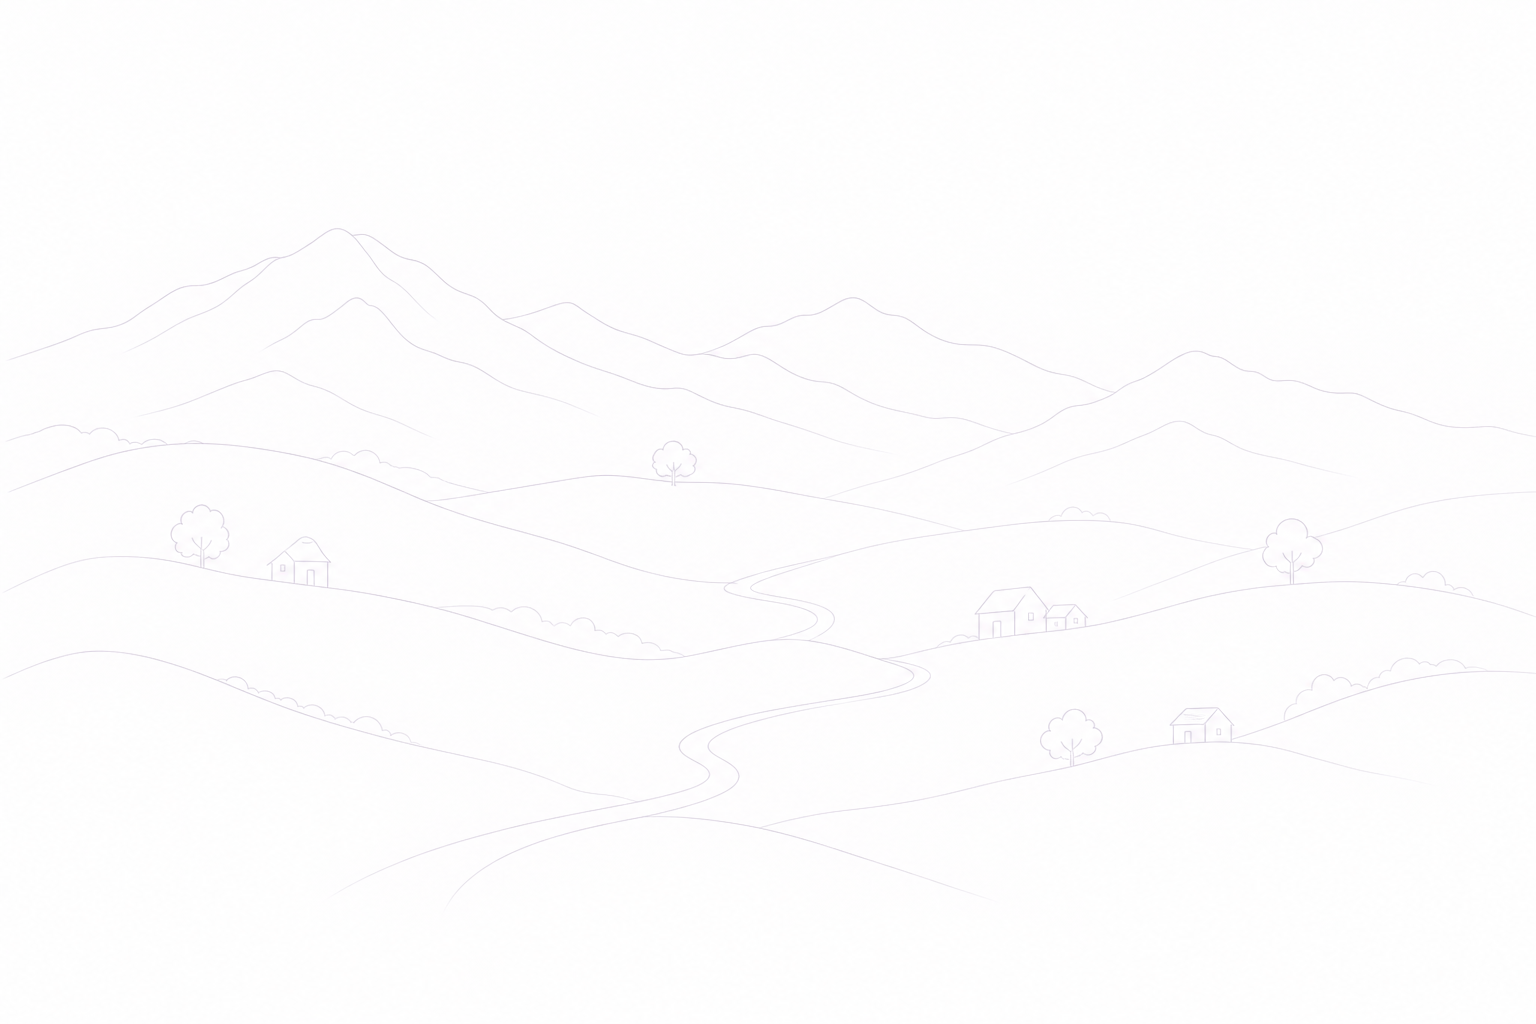
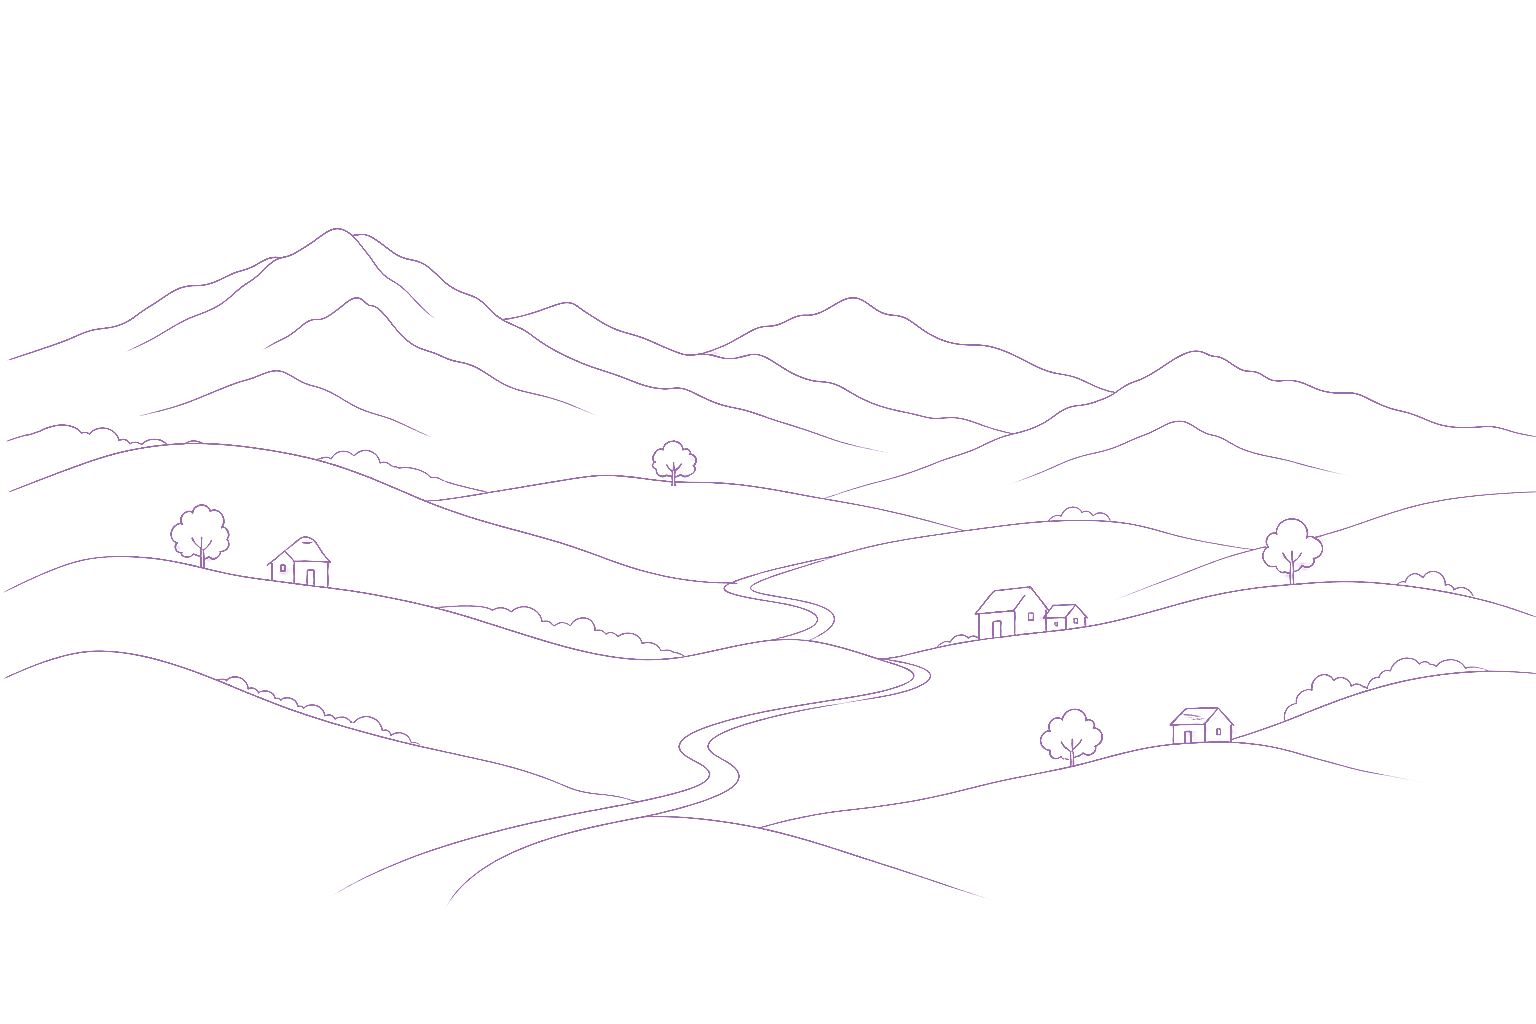
Corregir overflow vertical del hero en laptops estandar y regenerar fondo rural visible
- El hero ya no desborda el viewport en resoluciones tipicas de laptop (1280x720, 1366x768, 1440x900, 1536x864): se agregan breakpoints por altura que comprimen padding/gaps/tipografia sin quitar contenido, eliminando el scroll y el corte de Paula/dashboard en el pliegue.
- Se regenera login-rural-bg.png con lineas en tono purpura de marca y transparencia real, en vez de depender de filtros CSS fragiles; ahora el paisaje (montanas, casas, caminos) se nota claramente pero sigue siendo sutil.

diff --git a/portal/templates/portal/login.html b/portal/templates/portal/login.html
@@ -70,10 +70,8 @@
             width: 112%;
             height: 112%;
             object-fit: cover;
-            object-position: center 30%;
-            opacity: 0.9;
-            mix-blend-mode: multiply;
-            filter: contrast(5.5) saturate(1.4);
+            object-position: center 28%;
+            opacity: 0.55;
             z-index: 0;
             pointer-events: none;
             user-select: none;
@@ -511,6 +509,42 @@
             line-height: 1.45;
         }
 
+        /* Pantallas de laptop estándar (13"-15" a 100% zoom) tienen menos alto que ancho:
+           comprimimos verticalmente sin perder ningún elemento ni contenido. */
+        @media (min-width: 981px) and (max-height: 940px) {
+            body { padding: 18px; }
+            .hero { padding: 18px 32px 14px 28px; }
+            .hero-text { margin-bottom: 14px; }
+            .hero-text__logo { margin-bottom: 14px; }
+            .hero-text h1 { font-size: clamp(1.5rem, 2.6vw, 1.95rem); margin-bottom: 10px; }
+            .hero-text__sub { font-size: 0.92rem; }
+            .dash__topbar { padding: 10px 16px; }
+            .dash__main { padding: 16px 20px 20px; gap: 12px; }
+            .dash__kpi { padding: 12px 12px 11px; gap: 6px; }
+            .dash__kpi-icon { width: 24px; height: 24px; }
+            .dash__card { padding: 14px; }
+            .dash__card-label { margin-bottom: 8px; }
+            .panel { padding-top: 28px; padding-bottom: 20px; }
+        }
+        @media (min-width: 981px) and (max-height: 780px) {
+            body { padding: 12px; }
+            .hero { padding: 10px 26px 8px 22px; }
+            .hero-text { margin-bottom: 8px; }
+            .hero-text__logo { margin: 0 0 10px; }
+            .hero-text h1 { font-size: clamp(1.3rem, 2.3vw, 1.65rem); margin-bottom: 6px; line-height: 1.16; }
+            .hero-text__sub { font-size: 0.86rem; line-height: 1.4; }
+            .dash__topbar { padding: 8px 14px; }
+            .dash__main { padding: 12px 16px 16px; gap: 8px; }
+            .dash__kpis { gap: 10px; }
+            .dash__kpi { padding: 9px 10px 8px; gap: 4px; }
+            .dash__kpi-icon { width: 20px; height: 20px; }
+            .dash__kpi-icon svg { width: 12px; height: 12px; }
+            .dash__kpi-label { font-size: 0.64rem; }
+            .dash__kpi-value { font-size: clamp(1.05rem, 1.7vw, 1.3rem); }
+            .dash__card { padding: 10px 12px; }
+            .dash__card-label { margin-bottom: 4px; font-size: 0.66rem; }
+            .panel { padding-top: 20px; padding-bottom: 14px; }
+        }
         @media (max-width: 980px) {
             body {
                 grid-template-columns: 1fr;
@@ -548,7 +582,7 @@
             .dash__chart, .dash__bars { min-height: 110px; }
             .hero-character { display: none; }
             .hero-stage__shadow { display: none; }
-            .hero-rural-bg { opacity: 0.6; }
+            .hero-rural-bg { opacity: 0.4; }
         }
         @media (max-width: 520px) {
             .hero-text h1 { font-size: 1.55rem; }
